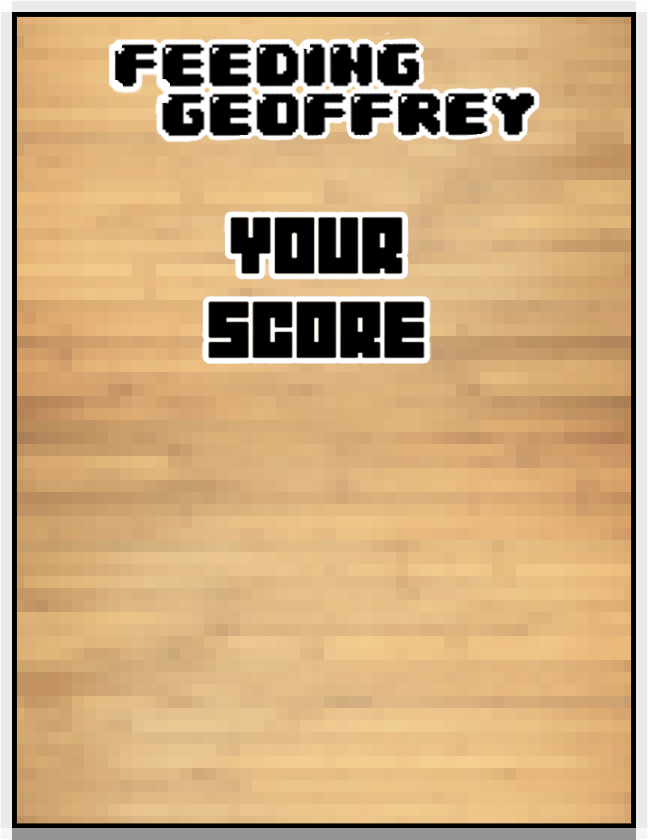
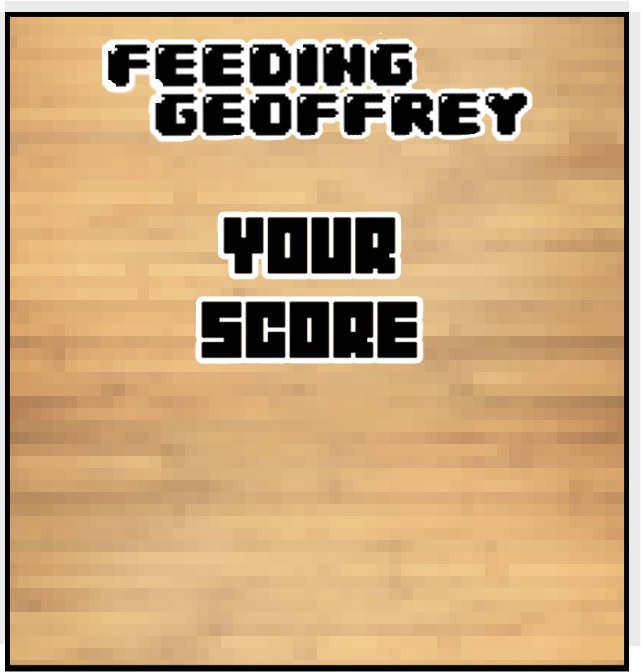
Gameover page layout complete, elements are where they should be

diff --git a/HTML/Gameplay.html b/HTML/Gameplay.html
@@ -103,13 +103,30 @@
     </div>
 
     <div class="timesup-screen">
-            <img src="../Images/Gameplay/timesup-logo.png" alt="" id="timesupimg" class="mx-auto d-block img-fluid">
+        <img src="../Images/Gameplay/timesup-logo.png" alt="" id="timesupimg" class="mx-auto d-block img-fluid">
     </div>
 
     <div class="gameover-screen">
-        <div id="score-board">
-            <img src="../Images/Gameplay/Gameover-board.png" alt="" >
 
+        <div id="score-board">
+            <img src="../Images/Gameplay/Gameover-board.png" class="score-board" alt="">
+        </div>
+        <div class="container btn-box">
+            <div class="row">
+                <div class="col boxbor">
+                    <button type="image" class="gmBTN btn" id="replayBTN">
+                        <img src="../Images/Gameplay/Gameover-replay.png" alt="">
+                    </button>
+
+                    <button type="image" class="gmBTN btn" id="highscoreBTN">
+                        <img src="../Images/Gameplay/Gameover-highscore.png" alt="">
+                    </button>
+
+                    <button type="image" class="gmBTN btn" id="mainmenuBTN">
+                        <img src="../Images/Gameplay/Gameover-mainmenu.png" alt="">
+                    </button>
+                </div>
+            </div>
         </div>
     </div>
 

diff --git a/CSS/Gameplay-css/Mobile-resp.css b/CSS/Gameplay-css/Mobile-resp.css
@@ -22,9 +22,9 @@ body{
     color: white;
 }
 
-.boxbor{
+/* .boxbor{
     border: 2px solid black;
-}
+} */
 
 /* univeral CSS END */
 
@@ -68,16 +68,25 @@ body{
 .gameover-screen{
     display: none;
     text-align: center;
-    position: relative;
 }
 
-.gameover-screen img{
-    height: 70vh;
-    width: auto;
-    margin-top: 10vh;
+.score-board{
+    height: 48vh;
+    margin-top: 20vh;
+    margin-left: 2px;
 }
 
+.gmBTN img{
+    height: 55px;
+}
 
+.btn-box{
+    background-image: url(../../Images/Gameplay/Gameover-btnBG.png);
+    background-repeat: no-repeat;
+    background-position: center;
+    width: 80vw;
+    margin-top: 5vh;
+}
 
 
 
@@ -155,6 +164,10 @@ body{
     float:right;
     margin-top:30px;
 }
+
+.btn-box{
+    background-size: 50vw;
+}
 }
 
 /* Ipad pro */
@@ -172,6 +185,10 @@ body{
 #pauseBtn{
     float:right;
     margin-top:30px;
+}
+
+.btn-box{
+    background-size: 50vw;
 }
 }
 
@@ -199,5 +216,10 @@ body{
     width: 270px;
     margin-top: 30px;
     margin-bottom: 10px;
+}
+
+.btn-box{
+    background-size: 20vw;
+    padding: 10px;
 }
 }

diff --git a/Scripts/Gameplay-Script.js b/Scripts/Gameplay-Script.js
@@ -33,9 +33,9 @@ document.querySelector('#pauseBtn').addEventListener('click', function()
 
 
 //Times up screen
-window.setTimeout(timesUpScreen, 3000)
+window.setTimeout(timesUpScreen, 2000)
 //Times Up screen END
 
 //Final Score
-window.setTimeout(gameoverScreen, 6000)
+window.setTimeout(gameoverScreen, 4000)
 //Final Score END
